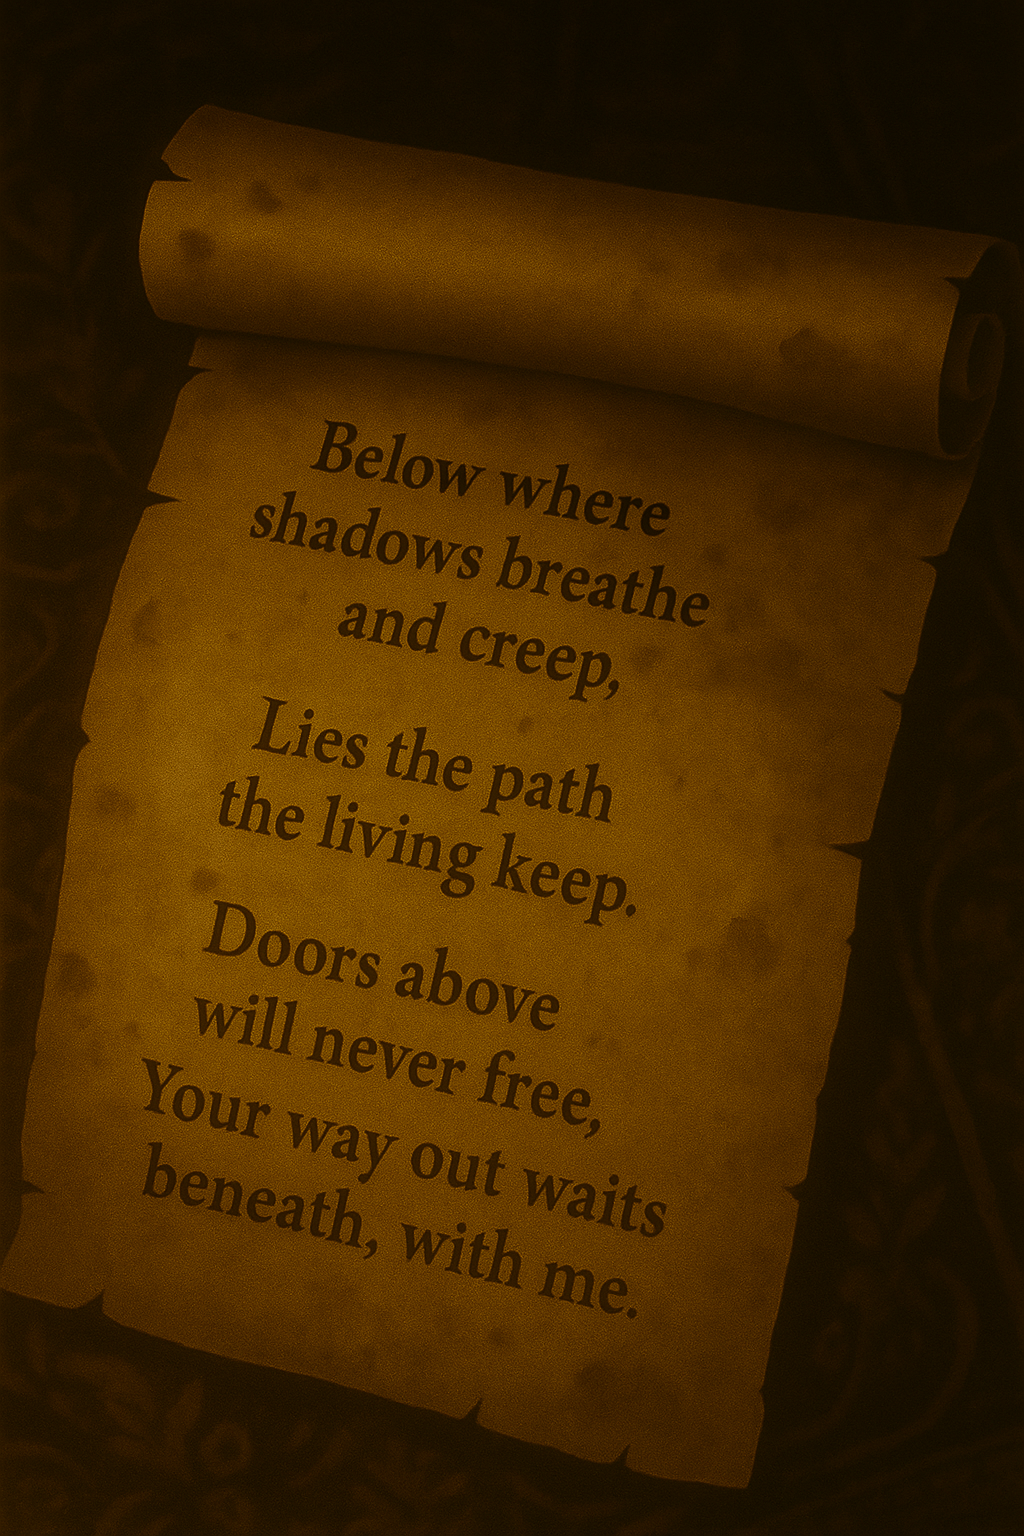
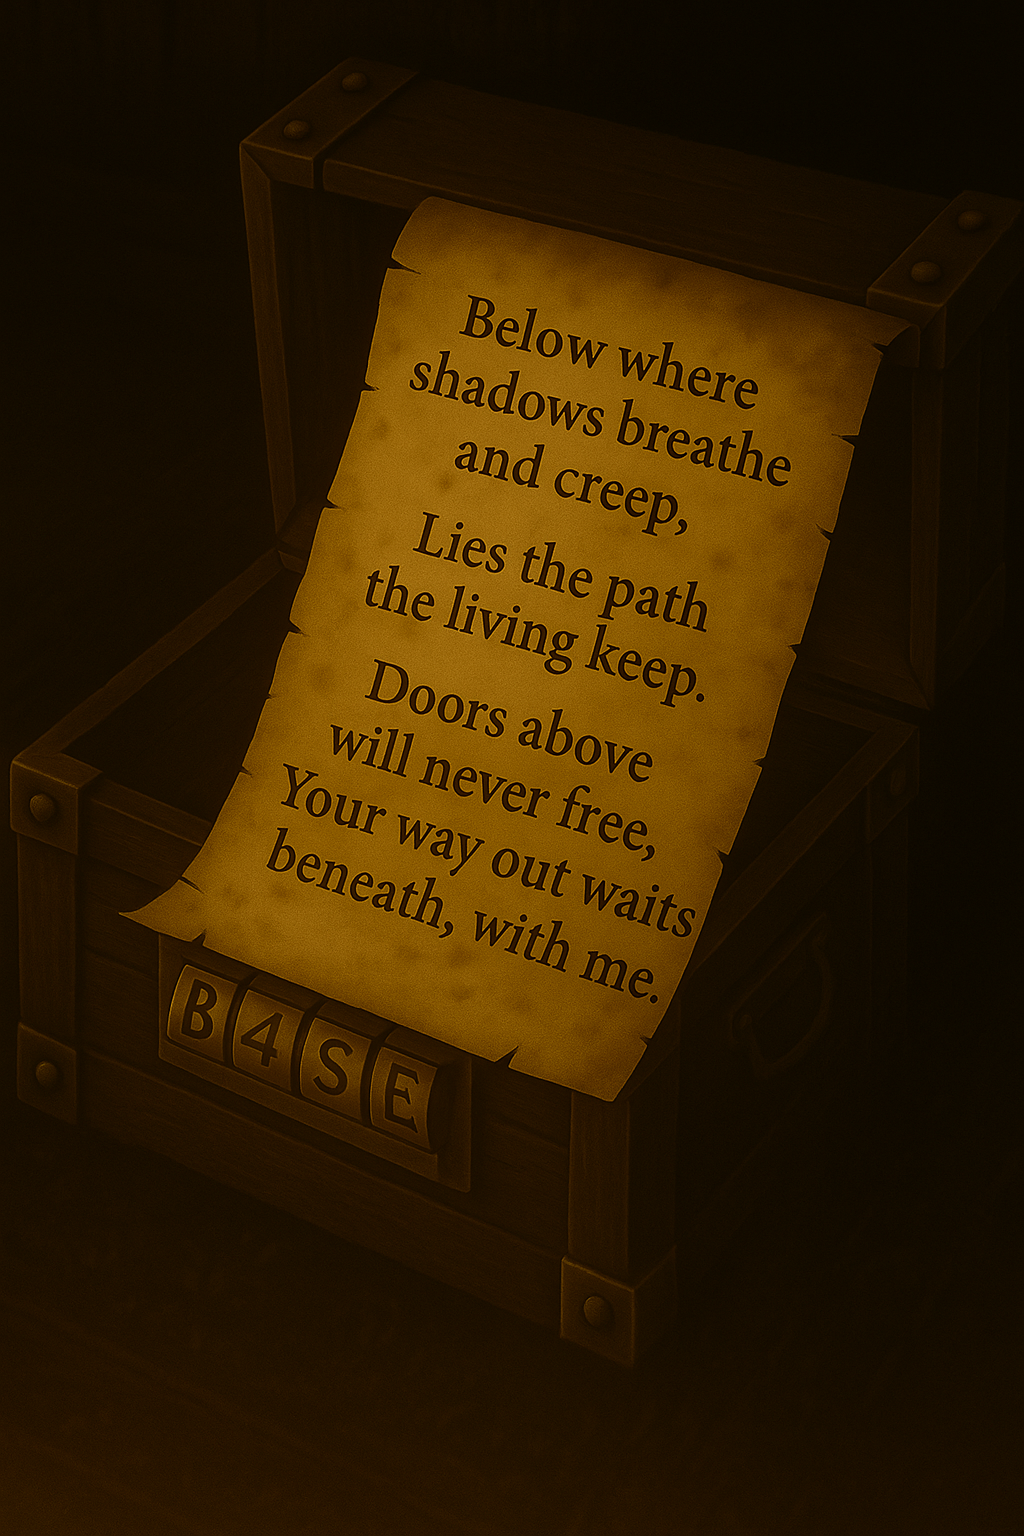
- Replaced painting.png with paintingcode.png and key.png with keyfound.png in foyer.html - Updated clue.png with new version - Added new escape.html, escape.css, and escape.js for end sequence - Implemented conditional navigation using localStorage: Without key: right arrow in foyer leads to baseme

diff --git a/css/livingroom.css b/css/livingroom.css
@@ -17,7 +17,7 @@ body {
   object-fit: cover;
 }
 
-/* Opaque navigation arrows */
+/* Navigation arrows */
 .arrow {
   position: absolute;
   width: 60px;
@@ -27,27 +27,26 @@ body {
   transition: opacity 0.3s, filter 0.3s;
 }
 
-/* Subtle glowing effect on hover */
 .arrow:hover {
   opacity: 0.9;
   filter: drop-shadow(0 0 10px rgba(255, 165, 0, 0.7))
           drop-shadow(0 0 20px rgba(255, 140, 0, 0.5));
 }
 
-/* Positioning */
+/* Arrow positions */
 .up {
   top: 30px;
   right: 40px;
-  transform: rotate(270deg); /* Point upward */
+  transform: rotate(270deg);
 }
 
 .down {
   bottom: 30px;
   right: 40px;
-  transform: rotate(90deg); /* Point downward */
+  transform: rotate(90deg);
 }
 
-/* Clickable area for showing dialog */
+/* Clickable area for the chest */
 .click-zone {
   position: absolute;
   bottom: 15%;
@@ -58,28 +57,27 @@ body {
   cursor: pointer;
 }
 
-/* Dialog styling */
+/* Dialog to show clue image */
 .dialog {
-  position: absolute;
-  top: 50%;
-  left: 50%;
-  transform: translate(-50%, -50%);
+  position: fixed;
+  top: 0;
+  left: 0;
+  width: 100%;
+  height: 100%;
   background: rgba(0, 0, 0, 0.8);
-  color: white;
-  font-size: 1.5rem;
-  padding: 20px 40px;
-  border-radius: 10px;
-  text-align: center;
-  box-shadow: 0 0 20px rgba(255, 255, 255, 0.4);
-  animation: fadeIn 0.4s ease-in-out;
+  display: flex;
+  justify-content: center;
+  align-items: center;
+  z-index: 10;
+}
+
+.dialog-image {
+  width: 60%;
+  max-width: 500px;
+  border-radius: 12px;
+  box-shadow: 0 0 25px rgba(255, 165, 0, 0.8);
 }
 
 .hidden {
   display: none;
-}
-
-/* Simple fade-in for the dialog */
-@keyframes fadeIn {
-  from { opacity: 0; transform: translate(-50%, -55%); }
-  to { opacity: 1; transform: translate(-50%, -50%); }
 }

diff --git a/css/escape.css b/css/escape.css
@@ -1,0 +1,85 @@
+/* Reset + Base */
+* {
+  margin: 0;
+  padding: 0;
+  box-sizing: border-box;
+}
+
+body, html {
+  width: 100%;
+  height: 100%;
+  overflow: hidden;
+  background-color: black;
+}
+
+.scene {
+  position: relative;
+  width: 100vw;
+  height: 100vh;
+}
+
+.bg {
+  width: 100%;
+  height: 100%;
+  object-fit: cover;
+  animation: fadeInBg 2s ease forwards;
+}
+
+/* ✨ Soft glowing dialog */
+.dialog {
+  position: fixed;
+  top: 0;
+  left: 0;
+  width: 100vw;
+  height: 100vh;
+  display: flex;
+  align-items: center;
+  justify-content: center;
+  background: transparent;
+  z-index: 10;
+  opacity: 1;
+}
+
+.dialog-content {
+  background: transparent;
+  padding: 25px 60px;
+  border-radius: 15px;
+  font-size: 2rem;
+  color: #ffae42;
+  text-shadow: 0 0 15px rgba(255, 165, 0, 0.9), 0 0 30px rgba(255, 140, 0, 0.6);
+  box-shadow: 0 0 40px rgba(255, 165, 0, 0.4),
+              0 0 70px rgba(255, 140, 0, 0.3);
+  animation: orangePulse 2s ease-in-out infinite alternate,
+             fadeIn 1.5s ease forwards;
+}
+
+/* ✨ Glow animation */
+@keyframes orangePulse {
+  0% {
+    box-shadow: 0 0 20px rgba(255, 150, 0, 0.3),
+                0 0 40px rgba(255, 120, 0, 0.2);
+  }
+  100% {
+    box-shadow: 0 0 35px rgba(255, 160, 0, 0.5),
+                0 0 70px rgba(255, 120, 0, 0.4);
+  }
+}
+
+/* 🕯 Fade-in animations */
+@keyframes fadeIn {
+  from {
+    opacity: 0;
+    transform: scale(0.95);
+    filter: blur(3px);
+  }
+  to {
+    opacity: 1;
+    transform: scale(1);
+    filter: blur(0);
+  }
+}
+
+@keyframes fadeInBg {
+  from { opacity: 0; }
+  to { opacity: 1; }
+}

diff --git a/js/foyer.js b/js/foyer.js
@@ -1,8 +1,15 @@
 // Navigation arrows
+// Navigation logic
 document.querySelectorAll('.arrow').forEach(arrow => {
   arrow.addEventListener('click', () => {
     const target = arrow.dataset.target;
-    window.location.href = `${target}.html`;
+
+    // If the right arrow is clicked AND player has found the key → go to escape page
+    if (target === 'basement' && localStorage.getItem('hasKey') === 'true') {
+      window.location.href = 'escape.html';
+    } else {
+      window.location.href = `${target}.html`;
+    }
   });
 });
 
@@ -34,12 +41,12 @@ dialog.addEventListener('click', closeDialog);
 // Click hotspots
 shelf.addEventListener('click', e => {
   e.stopPropagation();
-  openDialog('assets/images/shelf.png');
+  openDialog('assets/images/keyfound.png');
+  // ✅ Mark key as found
+  localStorage.setItem('hasKey', 'true');
 });
 
 painting.addEventListener('click', e => {
   e.stopPropagation();
-  openDialog('assets/images/painting.png');
+  openDialog('assets/images/paintingcode.png');
 });
-
-

diff --git a/livingroom.html b/livingroom.html
@@ -8,24 +8,23 @@
 </head>
 <body>
   <div class="scene">
-    <!-- Background image -->
+    <!-- Background -->
     <img src="assets/images/livingroom.png" alt="Living Room" class="bg" />
 
-    
     <!-- Navigation arrows -->
     <img src="assets/images/arrow.png" alt="Up Arrow" class="arrow up" id="upArrow" />
     <img src="assets/images/arrow.png" alt="Down Arrow" class="arrow down" id="downArrow" />
 
-    <!-- Click zone for chest/code -->
+    <!-- Clickable area for chest -->
     <div class="click-zone" id="codeZone"></div>
 
-    <!-- Dialog box -->
-    <div id="dialogBox" class="dialog hidden">
-      <p>Unlock with the code</p>
+    <!-- Opaque dialog box to display clue image -->
+    <div id="imageDialog" class="dialog hidden">
+      <img src="assets/images/clue.png" alt="Clue" class="dialog-image" />
     </div>
   </div>
-
 
   <script src="js/livingroom.js"></script>
 </body>
 </html>
+

diff --git a/js/livingroom.js b/js/livingroom.js
@@ -2,20 +2,21 @@
 const upArrow = document.getElementById("upArrow");
 const downArrow = document.getElementById("downArrow");
 
-// Dialog
-const dialogBox = document.getElementById("dialogBox");
+// Elements
 const codeZone = document.getElementById("codeZone");
+const imageDialog = document.getElementById("imageDialog");
 
-// Navigate between rooms
+// Navigation
 upArrow.onclick = () => (window.location.href = "foyer.html");
 downArrow.onclick = () => (window.location.href = "basement.html");
 
-// Click zone shows dialog
+// Click chest area → show clue image
 codeZone.onclick = () => {
-  dialogBox.classList.remove("hidden");
+  imageDialog.classList.remove("hidden");
 };
 
-// Clicking the dialog closes it
-dialogBox.onclick = () => {
-  dialogBox.classList.add("hidden");
+// Click anywhere on dialog to close it
+imageDialog.onclick = () => {
+  imageDialog.classList.add("hidden");
 };
+

diff --git a/escape.html b/escape.html
@@ -1,0 +1,24 @@
+<!DOCTYPE html>
+<html lang="en">
+<head>
+  <meta charset="UTF-8" />
+  <meta name="viewport" content="width=device-width, initial-scale=1.0" />
+  <title>MindTrap - Escape</title>
+  <link rel="stylesheet" href="css/escape.css" />
+</head>
+<body>
+  <div class="scene">
+    <!-- Background image -->
+    <img src="assets/images/escaped.png" alt="You Escaped" class="bg" />
+
+    <!-- Soft glowing dialog -->
+    <div id="dialog" class="dialog show">
+      <div class="dialog-content">
+        <p>Unlocked - You Escaped!</p>
+      </div>
+    </div>
+  </div>
+
+  <script src="js/escape.js"></script>
+</body>
+</html>

diff --git a/js/escape.js b/js/escape.js
@@ -1,0 +1,18 @@
+// Optional gentle fade-in and reset logic
+
+window.addEventListener("DOMContentLoaded", () => {
+  const dialog = document.getElementById("dialog");
+
+  // Smooth appearance delay
+  setTimeout(() => {
+    dialog.classList.add("show");
+  }, 500);
+
+  // Clear any saved progress (like the key)
+  localStorage.removeItem("hasKey");
+
+  // Optional: Click anywhere to restart the game
+  dialog.addEventListener("click", () => {
+    window.location.href = "index.html";
+  });
+});

diff --git a/js/basement.js b/js/basement.js
@@ -22,3 +22,4 @@ dialogBox.onclick = () => {
   dialogBox.classList.add("hidden");
 };
 
+

diff --git a/foyer.html b/foyer.html
@@ -31,4 +31,3 @@
   <script src="js/foyer.js"></script>
 </body>
 </html>
-

diff --git a/basement.html b/basement.html
@@ -32,3 +32,5 @@
 </body>
 </html>
 
+
+
